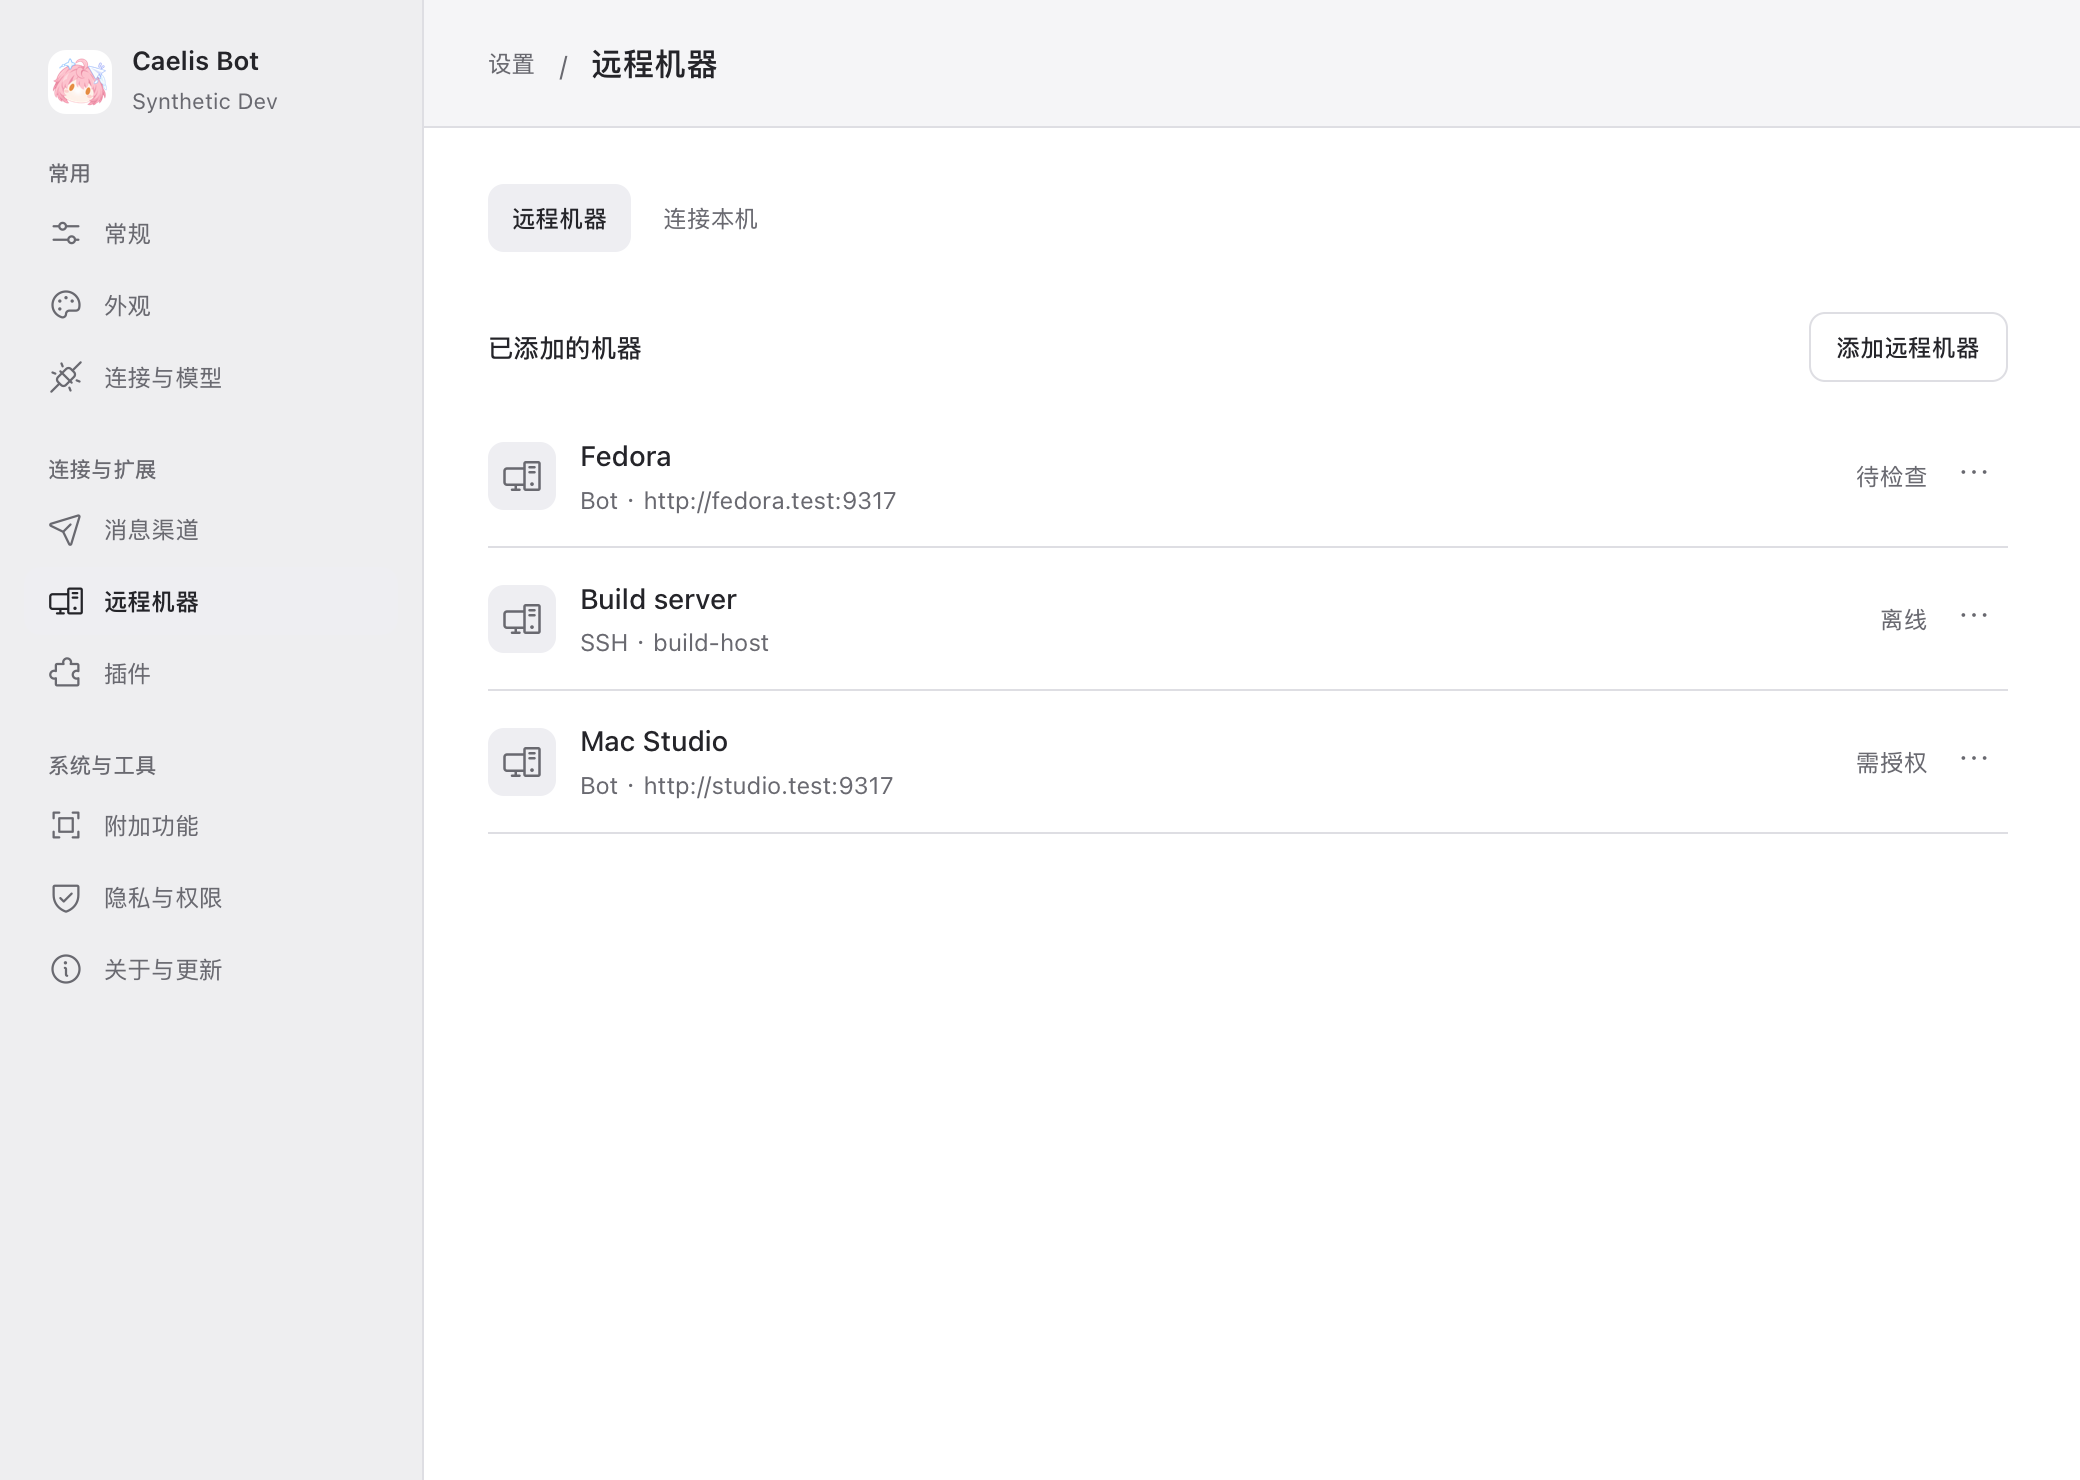
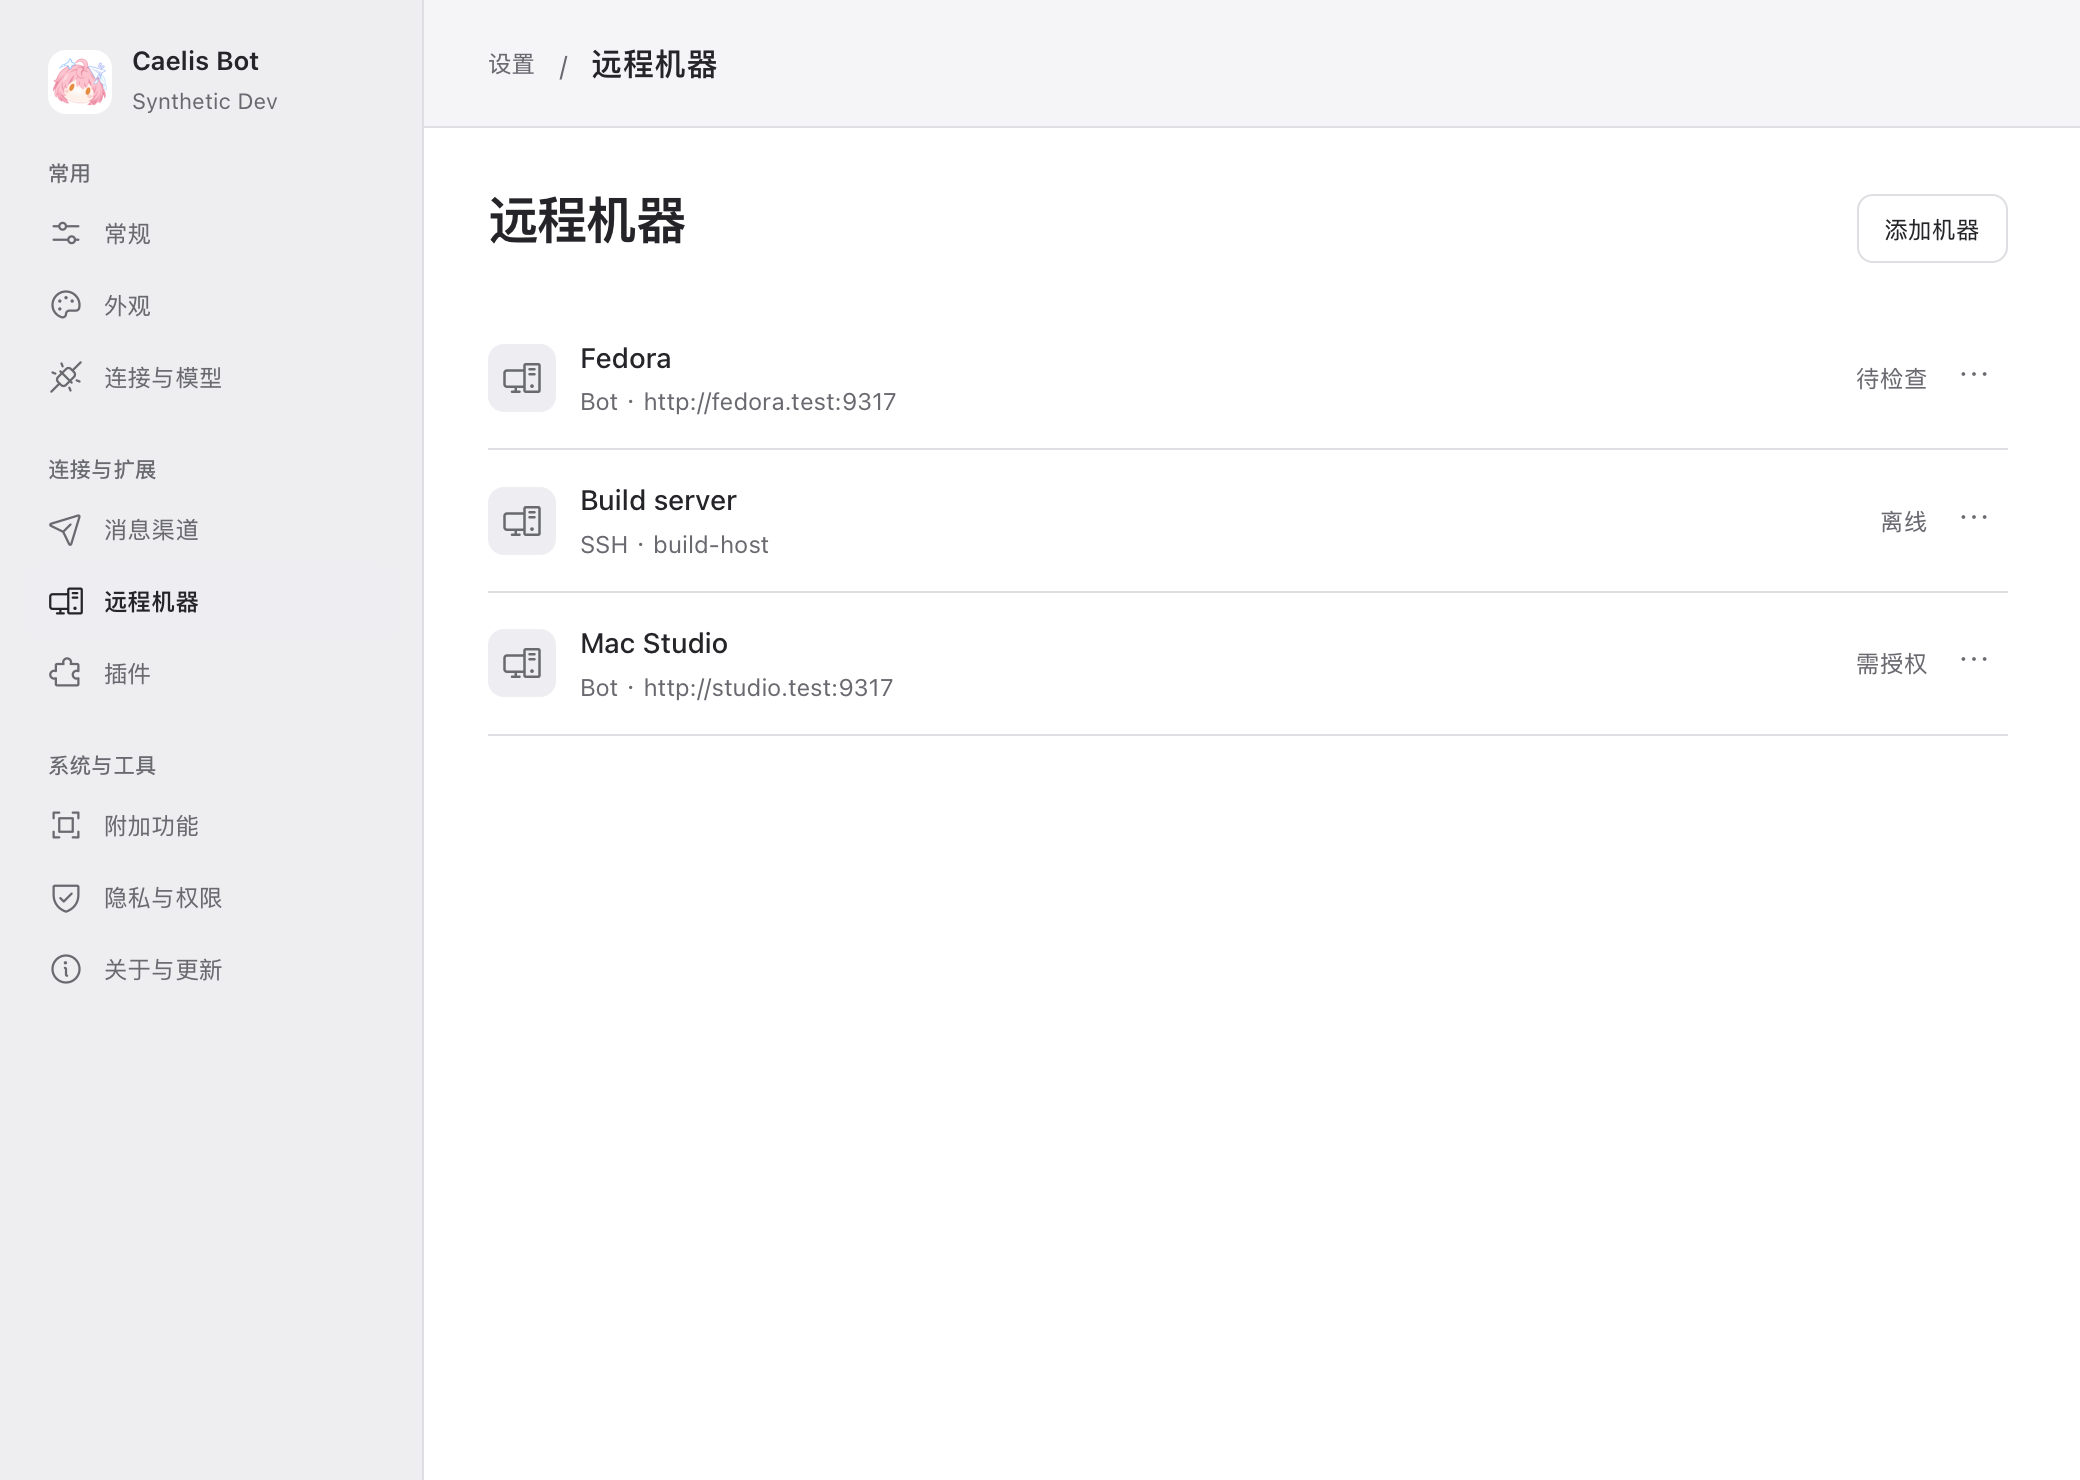
Document and align the verified remote connection UI

diff --git a/frontend/src/settings/runtime/MachineSettings.tsx b/frontend/src/settings/runtime/MachineSettings.tsx
@@ -31,7 +31,7 @@ export function MachineSettings({standalone=false, call = backend, openTerminal 
  const working=useRef(false),editor=useRef<HTMLDivElement>(null),advancedGeneration=useRef(0);
  const removeCancel=useRef<HTMLButtonElement>(null);
  const savedMachine=!!draft&&machines.some(v=>v.id===draft.id);
- const reload=async()=>{if(reading.current)return;reading.current=true;const current=generation.current;try{const result=await call<Machine[]>('Machines');if(current===generation.current){setMachines(result);setLoaded(true);setListError(false);}}catch(cause){if(current===generation.current){setLoaded(true);setListError(true)}throw cause}finally{reading.current=false}};
+ const reload=async()=>{if(reading.current)return;reading.current=true;const current=generation.current;try{const result=await call<Machine[]>('Machines');if(current===generation.current){setNow(Date.now());setMachines(result);setLoaded(true);setListError(false);}}catch(cause){if(current===generation.current){setLoaded(true);setListError(true)}throw cause}finally{reading.current=false}};
  useEffect(()=>{if(active)void reload().catch(()=>setLoaded(true));return()=>{generation.current++;};},[active,call]);
  useEffect(()=>{if(!active||draft)return;const timer=window.setInterval(()=>{setNow(Date.now());void reload().catch(()=>{});},4000);return()=>window.clearInterval(timer);},[active,!!draft,call]);
  const loadHosts=async()=>{const generation=++hostsGeneration.current;setHostsLoading(true);setHostsError(false);try{const value=await call<string[]>('SSHConfigHosts');if(generation===hostsGeneration.current)setHosts(value);}catch{if(generation===hostsGeneration.current){setHosts([]);setHostsError(true);}}finally{if(generation===hostsGeneration.current)setHostsLoading(false);}};

diff --git a/frontend/src/settings/runtime/machines.css b/frontend/src/settings/runtime/machines.css
@@ -61,7 +61,7 @@
 .machine-page h1{font-size:24px}
 
 /* A single inventory: heading and action share one baseline. */
-.remote-toolbar{display:flex;align-items:center;justify-content:space-between;gap:16px;margin:0 0 22px}
+.remote-toolbar{display:flex;align-items:baseline;justify-content:space-between;gap:16px;margin:0 0 22px}
 .machine-page .remote-toolbar h1,.remote-toolbar h2{margin:0;line-height:34px}
 .settings-window .remote-add{padding:8px 13px;min-height:34px;border-radius:8px}
 .remote-empty{margin:0;padding:8px 0 20px;color:var(--muted);font-size:13px;line-height:1.6}

diff --git a/docs/remote-machines-ui.md b/docs/remote-machines-ui.md
@@ -59,6 +59,10 @@ MCP/controlled model path; no real third-party OAuth/account claim is made.
 
 ![Native remote-machine list with synthetic data](images/remote-machines-native.png)
 
+![Native IP code exchange with synthetic data](images/remote-machine-pairing-native.png)
+
+![Native system SSH Host selection with synthetic data](images/remote-machine-ssh-native.png)
+
 Native OpenSSH tests use isolated -F/Include files to verify effective multi-hop
 ProxyJump and ProxyCommand configuration without connecting or reading/copying
 user keys. Fault tests hold SSH inspect/model/configuration/team/terminal calls
